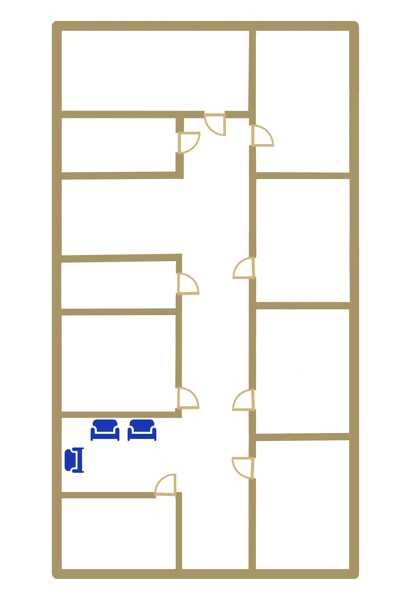
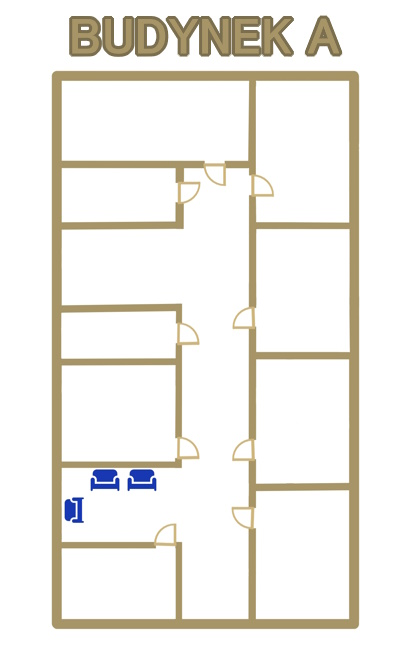
Map connections & descriptions finished
Czcionka do budynków:
MS PGothic

diff --git a/js/map-points.js b/js/map-points.js
@@ -4,27 +4,27 @@ const imgPaths = {
         // List of all dot coordinates placed around the map. Scaled to the image, then converted back into pixels.
         // Each dot needs a unique name
         dots: {
-            "dot2": { x: 0.18500, y: 0.38048 }, // sala 2
-            "dot3": { x: 0.25200, y: 0.46108 }, // sala 3
-            "dot4": { x: 0.25100, y: 0.74882 }, // dyrektor
-            "dot5": { x: 0.24900, y: 0.87972 }, // sala 10
-            "dot6": { x: 0.10200, y: 0.87972 }, // sala 13
-            "dot7": { x: 0.10300, y: 0.65912 }, // sekretariat uczniowski
-            "dot8": { x: 0.39300, y: 0.49505 }, // sala 22
-            "dot9": { x: 0.53700, y: 0.49505 }, // sala 24
-            "dot10": { x: 0.76000, y: 0.56011 }, // sala 46
-            "dot11": { x: 0.83700, y: 0.63366 }, // sala 45
-            "dot12": { x: 0.89100, y: 0.54173 }, // kibel meski
-            "dot13": { x: 0.75900, y: 0.36775 }, // psycholog
-            "dot14": { x: 0.76100, y: 0.21075 }, // sala 32
-            "dot15": { x: 0.76100, y: 0.10750 }, // sala bez numerku raz byla na niemieckim i historii
-            "dot16": { x: 0.91300, y: 0.16124 }, // sala 40 znak zapytania
-            "dot17": { x: 0.91100, y: 0.29562 }, // sala 41
-            "dot18": { x: 0.91000, y: 0.47524 }, // schody b gora
-            "dot19": { x: 0.90900, y: 0.43706 }, // schody b dol
-            "dot20": { x: 0.09200, y: 0.52900 }, // schody a gora
-            "dot21": { x: 0.62083, y: 0.55896 }, // mirys SALA
-            "dot22": { x: 0.10667, y: 0.46226 }, // wc A
+            "dot2": { x: 0.18500, y: 0.38048, desc: "Sala 2 (girl team)" }, // sala 2
+            "dot3": { x: 0.25200, y: 0.46108, desc: "Sala 3 (historia)" }, // sala 3
+            "dot4": { x: 0.25100, y: 0.74882, desc: "Dyrektor" }, // dyrektor
+            "dot5": { x: 0.24900, y: 0.87972, desc: "Sala 10 (j. polski)" }, // sala 10
+            "dot6": { x: 0.10200, y: 0.87972, desc: "Sala 13 (matematyka)" }, // sala 13
+            "dot7": { x: 0.10300, y: 0.65912, desc: "Sekretariat uczniowski" }, // sekretariat uczniowski
+            "dot8": { x: 0.39300, y: 0.49505, desc: "Sala 22 (technik automatyk)" }, // sala 22
+            "dot9": { x: 0.53700, y: 0.49505, desc: "Sala 24 (sumoboty)" }, // sala 24
+            "dot10": { x: 0.76000, y: 0.56011, desc: "Sala 46 (filozofia, religia)" }, // sala 46
+            "dot11": { x: 0.83700, y: 0.63366, desc: "Sala 45 (j. angielski)" }, // sala 45
+            "dot12": { x: 0.89100, y: 0.54173, desc: "Toaleta A (1)" }, // kibel meski
+            "dot13": { x: 0.75900, y: 0.36775, desc: "Psycholog" }, // psycholog
+            "dot14": { x: 0.76100, y: 0.21075, desc: "Sala 32 (chemia, biologia)" }, // sala 32
+            "dot15": { x: 0.76100, y: 0.10750, desc: "Sala 39 (technik energetyk*)" }, // sala bez numerku raz byla na niemieckim i historii
+            "dot16": { x: 0.91300, y: 0.16124, desc: "Sala 40 (technik mechatronik)" }, // sala 40 znak zapytania
+            "dot17": { x: 0.91100, y: 0.29562, desc: "Sala 40 (technik mechatronik)" }, // sala 41
+            "dot18": { x: 0.91000, y: 0.47524, desc: "SCHODY B - GÓRA" }, // schody b gora
+            "dot19": { x: 0.90900, y: 0.43706, desc: "SCHODY B - DÓL" }, // schody b dol
+            "dot20": { x: 0.09200, y: 0.52900, desc: "SCHODY A - GÓRA" }, // schody a gora
+            "dot21": { x: 0.62083, y: 0.55896, desc: "Praktyka zawodowa (Ryszard Mirys)" }, // mirys SALA
+            "dot22": { x: 0.10667, y: 0.46226, desc: "Toaleta A (2)" }, // wc A
 
             // W dots: walk dots
             // You can not go back in this pathfinding system, so the connections are only one way
@@ -70,41 +70,48 @@ const imgPaths = {
         dots: {
             "dot1A": { x: 0.17978, y: 0.37726 }, // sala 102
             "dot2A": { x: 0.25200, y: 0.44169 }, // sala 103
-            "dot3A": { x: 0.10422, y: 0.46370 }, // Toaleta meska A
-            "dot4A": { x: 0.10200, y: 0.63186 }, // Toaleta pracownicza A
-            "dot5A": { x: 0.10200, y: 0.68686 }, // sala 119
-            "dot6A": { x: 0.41644, y: 0.49513 }, // Sala gimnastyczna
-            "dot7A": { x: 0.26867, y: 0.71279 }, // Pielegniarka A
+            "dot3A": { x: 0.10422, y: 0.46370, desc: "Toaleta A (1)" }, // Toaleta meska A
+            "dot4A": { x: 0.10200, y: 0.63186, desc: "Toaleta A (2)" }, // Toaleta pracownicza A
+            "dot5A": { x: 0.10200, y: 0.68686, desc: "Sala 119 (wolontariat)" }, // sala 119
+            "dot6A": { x: 0.41644, y: 0.49513, desc: "Sala gimnastyczna" }, // Sala gimnastyczna
+            "dot7A": { x: 0.26867, y: 0.71279, desc: "Pielęgniarka" }, // Pielegniarka A
 
-            "dot8B": { x: 0.75978, y: 0.53285 }, // Sala 123
-            "dot9B": { x: 0.83400, y: 0.61771 }, // Sala 122
-            "dot10B": { x: 0.90756, y: 0.37097 }, // Toaleta pracownicza B
-            "dot11B": { x: 0.90867, y: 0.25310 }, // Sala 138
-            "dot12B": { x: 0.90867, y: 0.14152 }, // Sala 134
-            "dot13B": { x: 0.76311, y: 0.14466 }, // Sala 132
-            "dot14B": { x: 0.76311, y: 0.26882 }, // Sala 131
+            "dot7.5A": { x: 0.25083, y: 0.84552, desc: "Sala 113 (TRN)" }, // Sala 113
+
+            "dot8B": { x: 0.75978, y: 0.53285, desc: "Sala 123 (technik programista)" }, // Sala 123
+            "dot9B": { x: 0.83400, y: 0.61771, desc: "Sala 122 (technik programista)" }, // Sala 122
+            "dot10B": { x: 0.90756, y: 0.37097, desc: "Toaleta B" }, // Toaleta pracownicza B
+            "dot11B": { x: 0.90867, y: 0.25310, desc: "Sala 138 (technik elektronik)" }, // Sala 138
+            "dot12B": { x: 0.90867, y: 0.14152, desc: "Sala 134 (technik elektryk)" }, // Sala 134
+            "dot13B": { x: 0.76311, y: 0.14466, desc: "Sala 135 (technik elektronik)" }, // Sala 135
+            "dot13.5B": { x: 0.75917, y: 0.43868 }, // Sala 131
+            "dot14B": { x: 0.76311, y: 0.26882 }, // Sala 132
 
             "Wdot1A": { x: 0.07700, y: 0.57426, connections: ['Wdot3A'] }, // schody dol A
             "Wdot2A": { x: 0.07500, y: 0.53041, connections: ['Wdot3A'] }, // schody gora A
-            "Wdot3A": { x: 0.18200, y: 0.53890, connections: ['Wdot11A', 'Wdot4A', 'Wdot6A'] }, // mid A
-            "Wdot4A": { x: 0.18100, y: 0.46393, connections: ['Wdot5A', 'dot3A'] }, // gora triple A
-            "Wdot5A": { x: 0.18100, y: 0.44272, connections: ['dot1A', 'dot2A'] }, // gora A przed prawa sala
-            "Wdot6A": { x: 0.18100, y: 0.63225, connections: ['dot4A', 'Wdot7A'] }, // przed WC pracownicze A
+            "Wdot3A": { x: 0.18000, y: 0.53890, connections: ['Wdot11A', 'Wdot4A', 'Wdot6A'] }, // mid A
+            "Wdot4A": { x: 0.18000, y: 0.46393, connections: ['Wdot5A', 'dot3A'] }, // gora triple A
+            "Wdot5A": { x: 0.18000, y: 0.44272, connections: ['dot1A', 'dot2A'] }, // gora A przed prawa sala
+            "Wdot6A": { x: 0.18000, y: 0.63225, connections: ['dot4A', 'Wdot7A'] }, // przed WC pracownicze A
             "Wdot7A": { x: 0.18000, y: 0.68600, connections: ['dot5A', 'Wdot8A'] }, // przed 119
-            "Wdot8A": { x: 0.18000, y: 0.73267, connections: ['Wdot9A'] }, // przed pielegniarka
+            "Wdot8A": { x: 0.18000, y: 0.73267, connections: ['Wdot9A', 'Wdot8.5A'] }, // przed pielegniarka
             "Wdot9A": { x: 0.22600, y: 0.73267, connections: ['Wdot10A'] }, // pielegniarka drzwi down
             "Wdot10A": { x: 0.22700, y: 0.71711, connections: ['dot7A'] }, // pielegniarka drzwi
             "Wdot11A": { x: 0.33400, y: 0.54031, connections: ['Wdot12A'] }, // szatnia sala gimnastyczna
             "Wdot12A": { x: 0.33400, y: 0.49505, connections: ['dot6A'] }, // szatnia przed sala gimnastyczna
 
+            "Wdot8.5A": { x: 0.18000, y: 0.84552, connections: ['dot7.5A'] }, // Sala 113 STAND
+
             "Wdot13B": { x: 0.92100, y: 0.43706, connections: ['Wdot15B'] }, // schody dol B
             "Wdot14B": { x: 0.92200, y: 0.47666, connections: ['Wdot15B'] }, // schody gora B
-            "Wdot15B": { x: 0.83300, y: 0.43706, connections: ['Wdot16B', 'Wdot17B'] }, // mid B
+            "Wdot15B": { x: 0.83400, y: 0.43706, connections: ['Wdot16B', 'Wdot17B', 'dot13.5B'] }, // mid B
             "Wdot16B": { x: 0.83400, y: 0.53285, connections: ['dot8B', 'dot9B'] }, // dol triple B
-            "Wdot17B": { x: 0.83300, y: 0.37341, connections: ['dot10B', 'Wdot18B'] }, // przed WC pracownicze B
-            "Wdot18B": { x: 0.83200, y: 0.26874, connections: ['dot14B', 'Wdot19B'] }, // przed 131
-            "Wdot19B": { x: 0.83300, y: 0.25318, connections: ['dot11B', 'Wdot20B'] }, // przed 138
-            "Wdot20B": { x: 0.83200, y: 0.14427, connections: ['dot12B', 'dot13B'] }, // przed 132 i 134
+            "Wdot17B": { x: 0.83400, y: 0.37341, connections: ['dot10B', 'Wdot18B'] }, // przed WC pracownicze B
+            "Wdot18B": { x: 0.83400, y: 0.26874, connections: ['dot14B', 'Wdot19B'] }, // przed 131
+            "Wdot19B": { x: 0.83400, y: 0.25318, connections: ['dot11B', 'Wdot20B'] }, // przed 138
+            "Wdot20B": { x: 0.83400, y: 0.14427, connections: ['dot12B', 'dot13B'] }, // przed 132 i 134
+
+
 
         }
 
@@ -112,13 +119,50 @@ const imgPaths = {
 
     "Floor2A": {
         dots: {
+            "dot1": { x: 0.53750, y: 0.21385, desc: "Sala 202 (j. angielski)" }, // Sala 202
+            "dot2": { x: 0.31250, y: 0.30308 }, // WC meskie
+            "dot3": { x: 0.31250, y: 0.51692 }, // WC zenskie
+            "dot4": { x: 0.74500, y: 0.28308 }, // Sala 203
+            "dot5": { x: 0.74500, y: 0.48923, desc: "Sala 204 (j. polski)" }, // Sala 204
+            "dot6": { x: 0.74500, y: 0.69077, desc: "Sala 205 (matematyka)" }, // Sala 205
+            "dot7": { x: 0.74500, y: 0.79846, desc: "Sala 207 (fizyka)" }, // Sala 207
+            "dot8": { x: 0.41500, y: 0.88308, desc: "Sala 210 (matematyka)" }, // Sala 210
+            "dot9": { x: 0.31250, y: 0.68923 }, // Biblioteka
 
+            "Wdot1": { x: 0.31000, y: 0.44000, connections: ['Wdot2'] }, // Schody w dol
+            "Wdot2": { x: 0.53500, y: 0.44000, connections: ['Wdot3', 'Wdot5'] }, // mid A
+            "Wdot3": { x: 0.53500, y: 0.30000, connections: ['Wdot4', 'dot2'] }, // przed WC up
+            "Wdot4": { x: 0.53500, y: 0.28308, connections: ['dot1', 'dot4'] }, // przed sale up
+            "Wdot5": { x: 0.53500, y: 0.49231, connections: ['dot5', 'Wdot6'] }, // przed 204
+            "Wdot6": { x: 0.53500, y: 0.51538, connections: ['dot3', 'Wdot7'] }, // przed WC down
+            "Wdot7": { x: 0.53500, y: 0.69231, connections: ['dot9', 'dot6', 'Wdot8'] }, // przed 205 i bibl
+            "Wdot8": { x: 0.53500, y: 0.79846, connections: ['dot7', 'Wdot9'] }, // przed 207
+            "Wdot9": { x: 0.41500, y: 0.79846, connections: ['dot8'] }, // przed 210
         }
 
     },
     "Floor2B": {
         dots: {
+            "dot1": { x: 0.50000, y: 0.89231, desc: "Sala 215 (j. niemiecki)" }, // Sala 215
+            "dot2": { x: 0.28750, y: 0.78769 }, // Sala 216
+            "dot3": { x: 0.28250, y: 0.62462 }, // Sala 219
+            "dot4": { x: 0.28250, y: 0.46154, desc: "Sala 221 (technik informatyk)" }, // Sala 221
+            "dot5": { x: 0.27500, y: 0.30615, desc: "Sala 222 (t. informatyk, programista)" }, // Sala 222
+            "dot6": { x: 0.29750, y: 0.23385, desc: "Sala 224 (technik informatyk)" }, // Sala 224
+            "dot7": { x: 0.70500, y: 0.23538, desc: "Sala 226 (technik informatyk)" }, // Sala 226
+            "dot8": { x: 0.69750, y: 0.37385 }, // Sala 227
+            "dot9": { x: 0.70500, y: 0.56154 }, // WC zenskie
+            "dot10": { x: 0.70500, y: 0.78769 }, // WC meskie
 
+            "Wdot1": { x: 0.71750, y: 0.65385, connections: ['Wdot2'] }, // Schody w dol
+            "Wdot2": { x: 0.50000, y: 0.65385, connections: ['Wdot4', 'Wdot3'] }, // mid B
+            "Wdot3": { x: 0.50000, y: 0.78769, connections: ['dot1', 'dot2', 'dot10'] }, // down B
+            "Wdot4": { x: 0.50000, y: 0.62308, connections: ['dot3', 'Wdot5'] }, // przed 219
+            "Wdot5": { x: 0.50000, y: 0.56462, connections: ['dot9', 'Wdot6'] }, // przed WC zenskie
+            "Wdot6": { x: 0.50000, y: 0.46308, connections: ['dot4', 'Wdot7'] }, // przed 221
+            "Wdot7": { x: 0.50000, y: 0.37385, connections: ['dot8', 'Wdot8'] }, // przed 227
+            "Wdot8": { x: 0.50000, y: 0.30923, connections: ['dot5', 'Wdot9'] }, // przed 222
+            "Wdot9": { x: 0.50000, y: 0.23538, connections: ['dot6', 'dot7'] }, // up B
         }
 
     },
@@ -189,7 +233,7 @@ function drawDotsEverywhere() {
 
 }
 
-// drawDotsEverywhere();
+drawDotsEverywhere();
 
 
 // Draw a line from one point to the other

diff --git a/index.html b/index.html
@@ -48,13 +48,13 @@
         </div> -->
         <div class="map" style="cursor: grab;">
             <div class="layers Floor0">
-                <img class="map-layer" src="./assets/map/Floor0.jpg">
+                <img class="map-layer" src="./assets/map/Floor0FILLED.jpg">
                 <canvas class="canvas-layer"></canvas>
                 <div class="button-layer"></div>
             </div>
 
             <div class="layers Floor1">
-                <img class="map-layer" src="./assets/map/Floor1.jpg">
+                <img class="map-layer" src="./assets/map/Floor1FILLED.jpg">
                 <canvas class="canvas-layer"></canvas>
                 <div class="button-layer"></div>
             </div>

diff --git a/css/all.css b/css/all.css
@@ -181,7 +181,7 @@ img::selection {
     /* background-color: lightgray; */
     /* border: 2px solid gray; */
     background-color: rgba(100,100,100,0.1);
-    backdrop-filter: blur(2px);
+    backdrop-filter: blur(4px);
     border-radius: 4rem;
     margin: 1rem;
     
@@ -239,7 +239,7 @@ div.reset {
     margin: 0;
     top: 100%;
     background-color: rgba(100,100,100,0.1);
-    backdrop-filter: blur(2px);
+    backdrop-filter: blur(4px);
 
     width: 5rem;
     height: 3.5rem;
